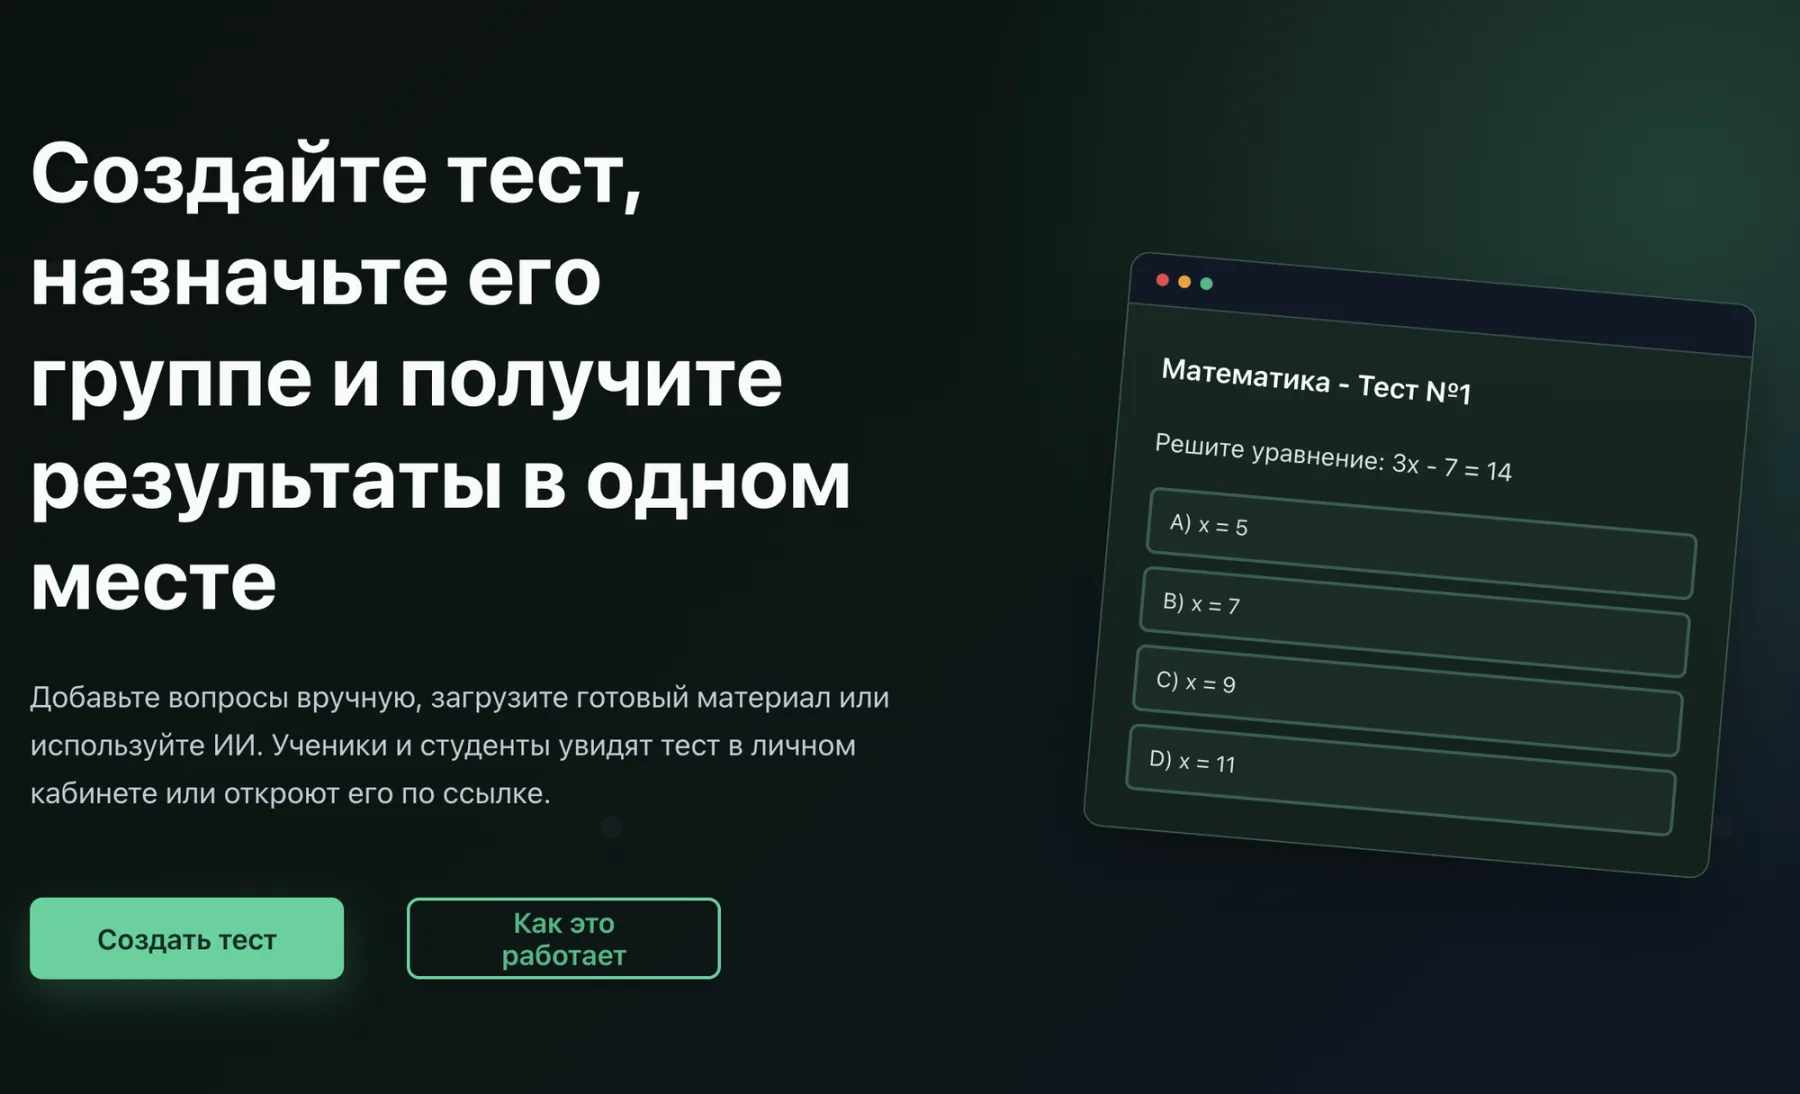
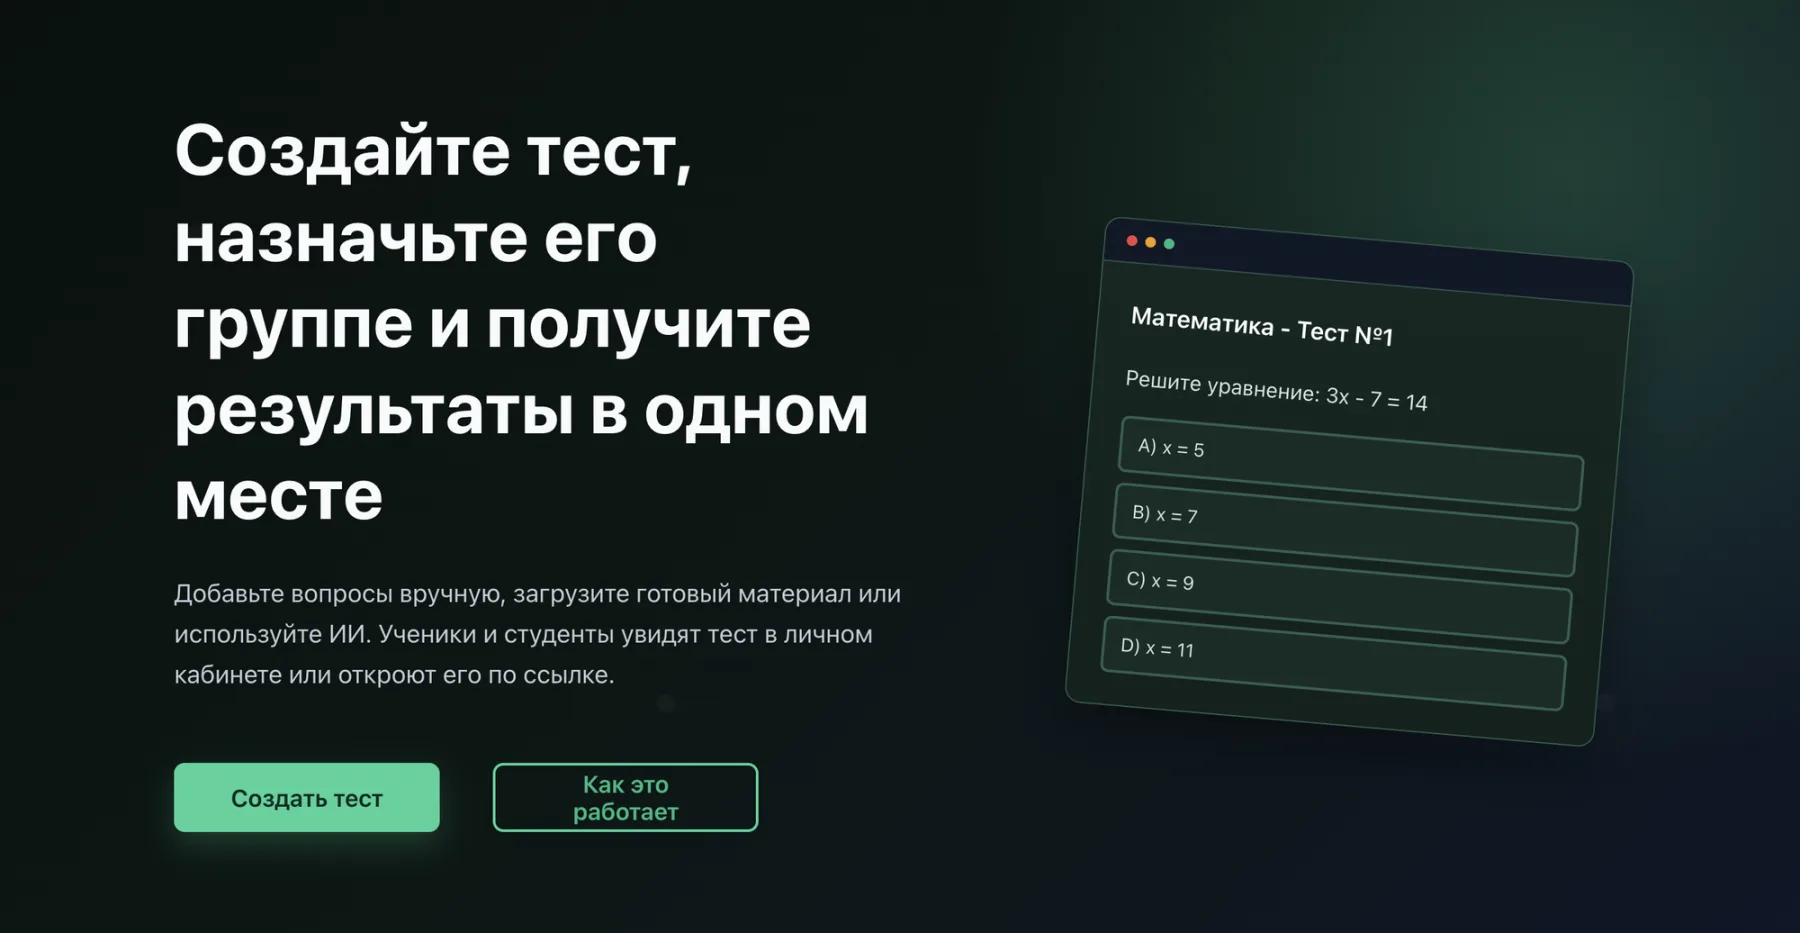
Skorix: roomier landing screenshot, shown uncropped in the hero
New skorix.ru first-screen capture with a proper left margin; the hero
front card keeps its natural ratio instead of cover-cropping to 16:10.
Share image re-rendered.

diff --git a/cases/skorix.html b/cases/skorix.html
@@ -99,8 +99,8 @@
                 </ul>
             </div>
             <div class="case-hero__visual case-hero__visual--natural">
-                <img data-src="../img/cases/skorix/skorix-landing-hero.webp" alt="Первый экран skorix.ru: создайте тест, назначьте его группе и получите результаты в одном месте" width="1800" height="1094" decoding="async">
-                <noscript><img src="../img/cases/skorix/skorix-landing-hero.webp" alt="Первый экран skorix.ru: создайте тест, назначьте его группе и получите результаты в одном месте" width="1800" height="1094"></noscript>
+                <img data-src="../img/cases/skorix/skorix-landing-hero.webp" alt="Первый экран skorix.ru: создайте тест, назначьте его группе и получите результаты в одном месте" width="1800" height="933" decoding="async">
+                <noscript><img src="../img/cases/skorix/skorix-landing-hero.webp" alt="Первый экран skorix.ru: создайте тест, назначьте его группе и получите результаты в одном месте" width="1800" height="933"></noscript>
             </div>
         </section>
 

diff --git a/index.html b/index.html
@@ -136,7 +136,7 @@
                     </a>
                     <a href="cases/skorix.html" class="hero__shot hero__shot--front">
                         <span class="hero__shot-bar" aria-hidden="true"></span>
-                        <img src="img/cases/skorix/skorix-landing-hero.webp" alt="" width="1800" height="1094" decoding="async" fetchpriority="high">
+                        <img src="img/cases/skorix/skorix-landing-hero.webp" alt="" width="1800" height="933" decoding="async" fetchpriority="high">
                         <span class="hero__shot-label">Skorix</span>
                     </a>
                 </div>

diff --git a/css/style.css b/css/style.css
@@ -661,6 +661,12 @@ h1, h2, h3, h4 {
     z-index: 2;
 }
 
+/* The Skorix landing shot is wider than 16:10; show it whole so the
+   headline keeps its own left margin instead of being cropped to the edge. */
+.hero__shot--front img {
+    aspect-ratio: auto;
+}
+
 .hero__shot:hover,
 .hero__shot:focus-visible {
     z-index: 3;
